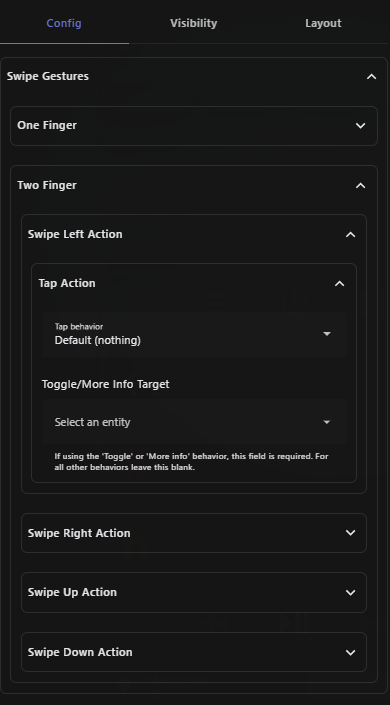
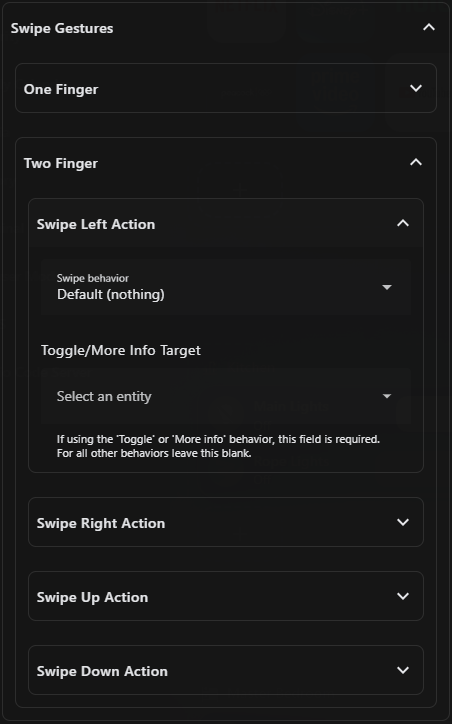
Change UI editor label  for tap action to swipe action

diff --git a/swipe-navigation-card.js b/swipe-navigation-card.js
@@ -363,6 +363,10 @@ class NavigationCard extends HTMLElement {
                                 { name: "tap_action", label: "Tap behavior", selector: { ui_action: {actions: ["perform-action", "toggle", "more-info", "navigate", "url", "assist", "none" ], default_action: "none"} } },
                                 { name: "tap_entity", label: "Toggle/More Info Target", selector: { entity: {} } }
                             ]};
+        const swipe_action = [
+                                { name: "tap_action", label: "Swipe behavior", selector: { ui_action: {actions: ["perform-action", "toggle", "more-info", "navigate", "url", "assist", "none" ], default_action: "none"} } },
+                                { name: "tap_entity", label: "Toggle/More Info Target", selector: { entity: {} } }
+                             ];
         const hold_action = { type: "expandable", name: "hold_action_expandable", label: "Hold Action", flatten: true, schema: [
                                 { name: "hold_repeat_ms", label: "Hold repeat delay",  selector: { number: { min: 100, max: 1000, step: 50, unit_of_measurement: "ms" } } },
                                 { name: "hold_action", label: "Hold behavior", selector: { ui_action: {actions: ["perform-action", "toggle", "more-info", "navigate", "url", "assist", "none"], default_action: "none"} } },
@@ -386,16 +390,16 @@ class NavigationCard extends HTMLElement {
             schema: [
                 { type: "expandable", name: "swipe_actions", label: "Swipe Gestures", schema: [
                     { type: "expandable", name: "one_finger", label: "One Finger", schema: [
-                        { type: "expandable", name: "swipe_left", label: "Swipe Left Action", schema: [tap_action] },
-                        { type: "expandable", name: "swipe_right", label: "Swipe Right Action",schema: [tap_action] },
-                        { type: "expandable", name: "swipe_up", label: "Swipe Up Action", schema: [tap_action] },
-                        { type: "expandable", name: "swipe_down", label: "Swipe Down Action", schema: [tap_action] },
+                        { type: "expandable", name: "swipe_left", label: "Swipe Left Action", schema: swipe_action },
+                        { type: "expandable", name: "swipe_right", label: "Swipe Right Action",schema: swipe_action },
+                        { type: "expandable", name: "swipe_up", label: "Swipe Up Action", schema: swipe_action },
+                        { type: "expandable", name: "swipe_down", label: "Swipe Down Action", schema: swipe_action },
                     ]},
                     { type: "expandable", name: "two_finger", label: "Two Finger", schema: [
-                        { type: "expandable", name: "swipe_left", label: "Swipe Left Action", schema: [tap_action] },
-                        { type: "expandable", name: "swipe_right", label: "Swipe Right Action", schema: [tap_action] },
-                        { type: "expandable", name: "swipe_up", label: "Swipe Up Action", schema: [tap_action] },
-                        { type: "expandable", name: "swipe_down", label: "Swipe Down Action", schema: [tap_action] },
+                        { type: "expandable", name: "swipe_left", label: "Swipe Left Action", schema: swipe_action },
+                        { type: "expandable", name: "swipe_right", label: "Swipe Right Action", schema: swipe_action },
+                        { type: "expandable", name: "swipe_up", label: "Swipe Up Action", schema: swipe_action },
+                        { type: "expandable", name: "swipe_down", label: "Swipe Down Action", schema: swipe_action },
                     ]},
                 ]},
                 { type: "expandable", name: "button_actions", label: "Buttons", schema: [
